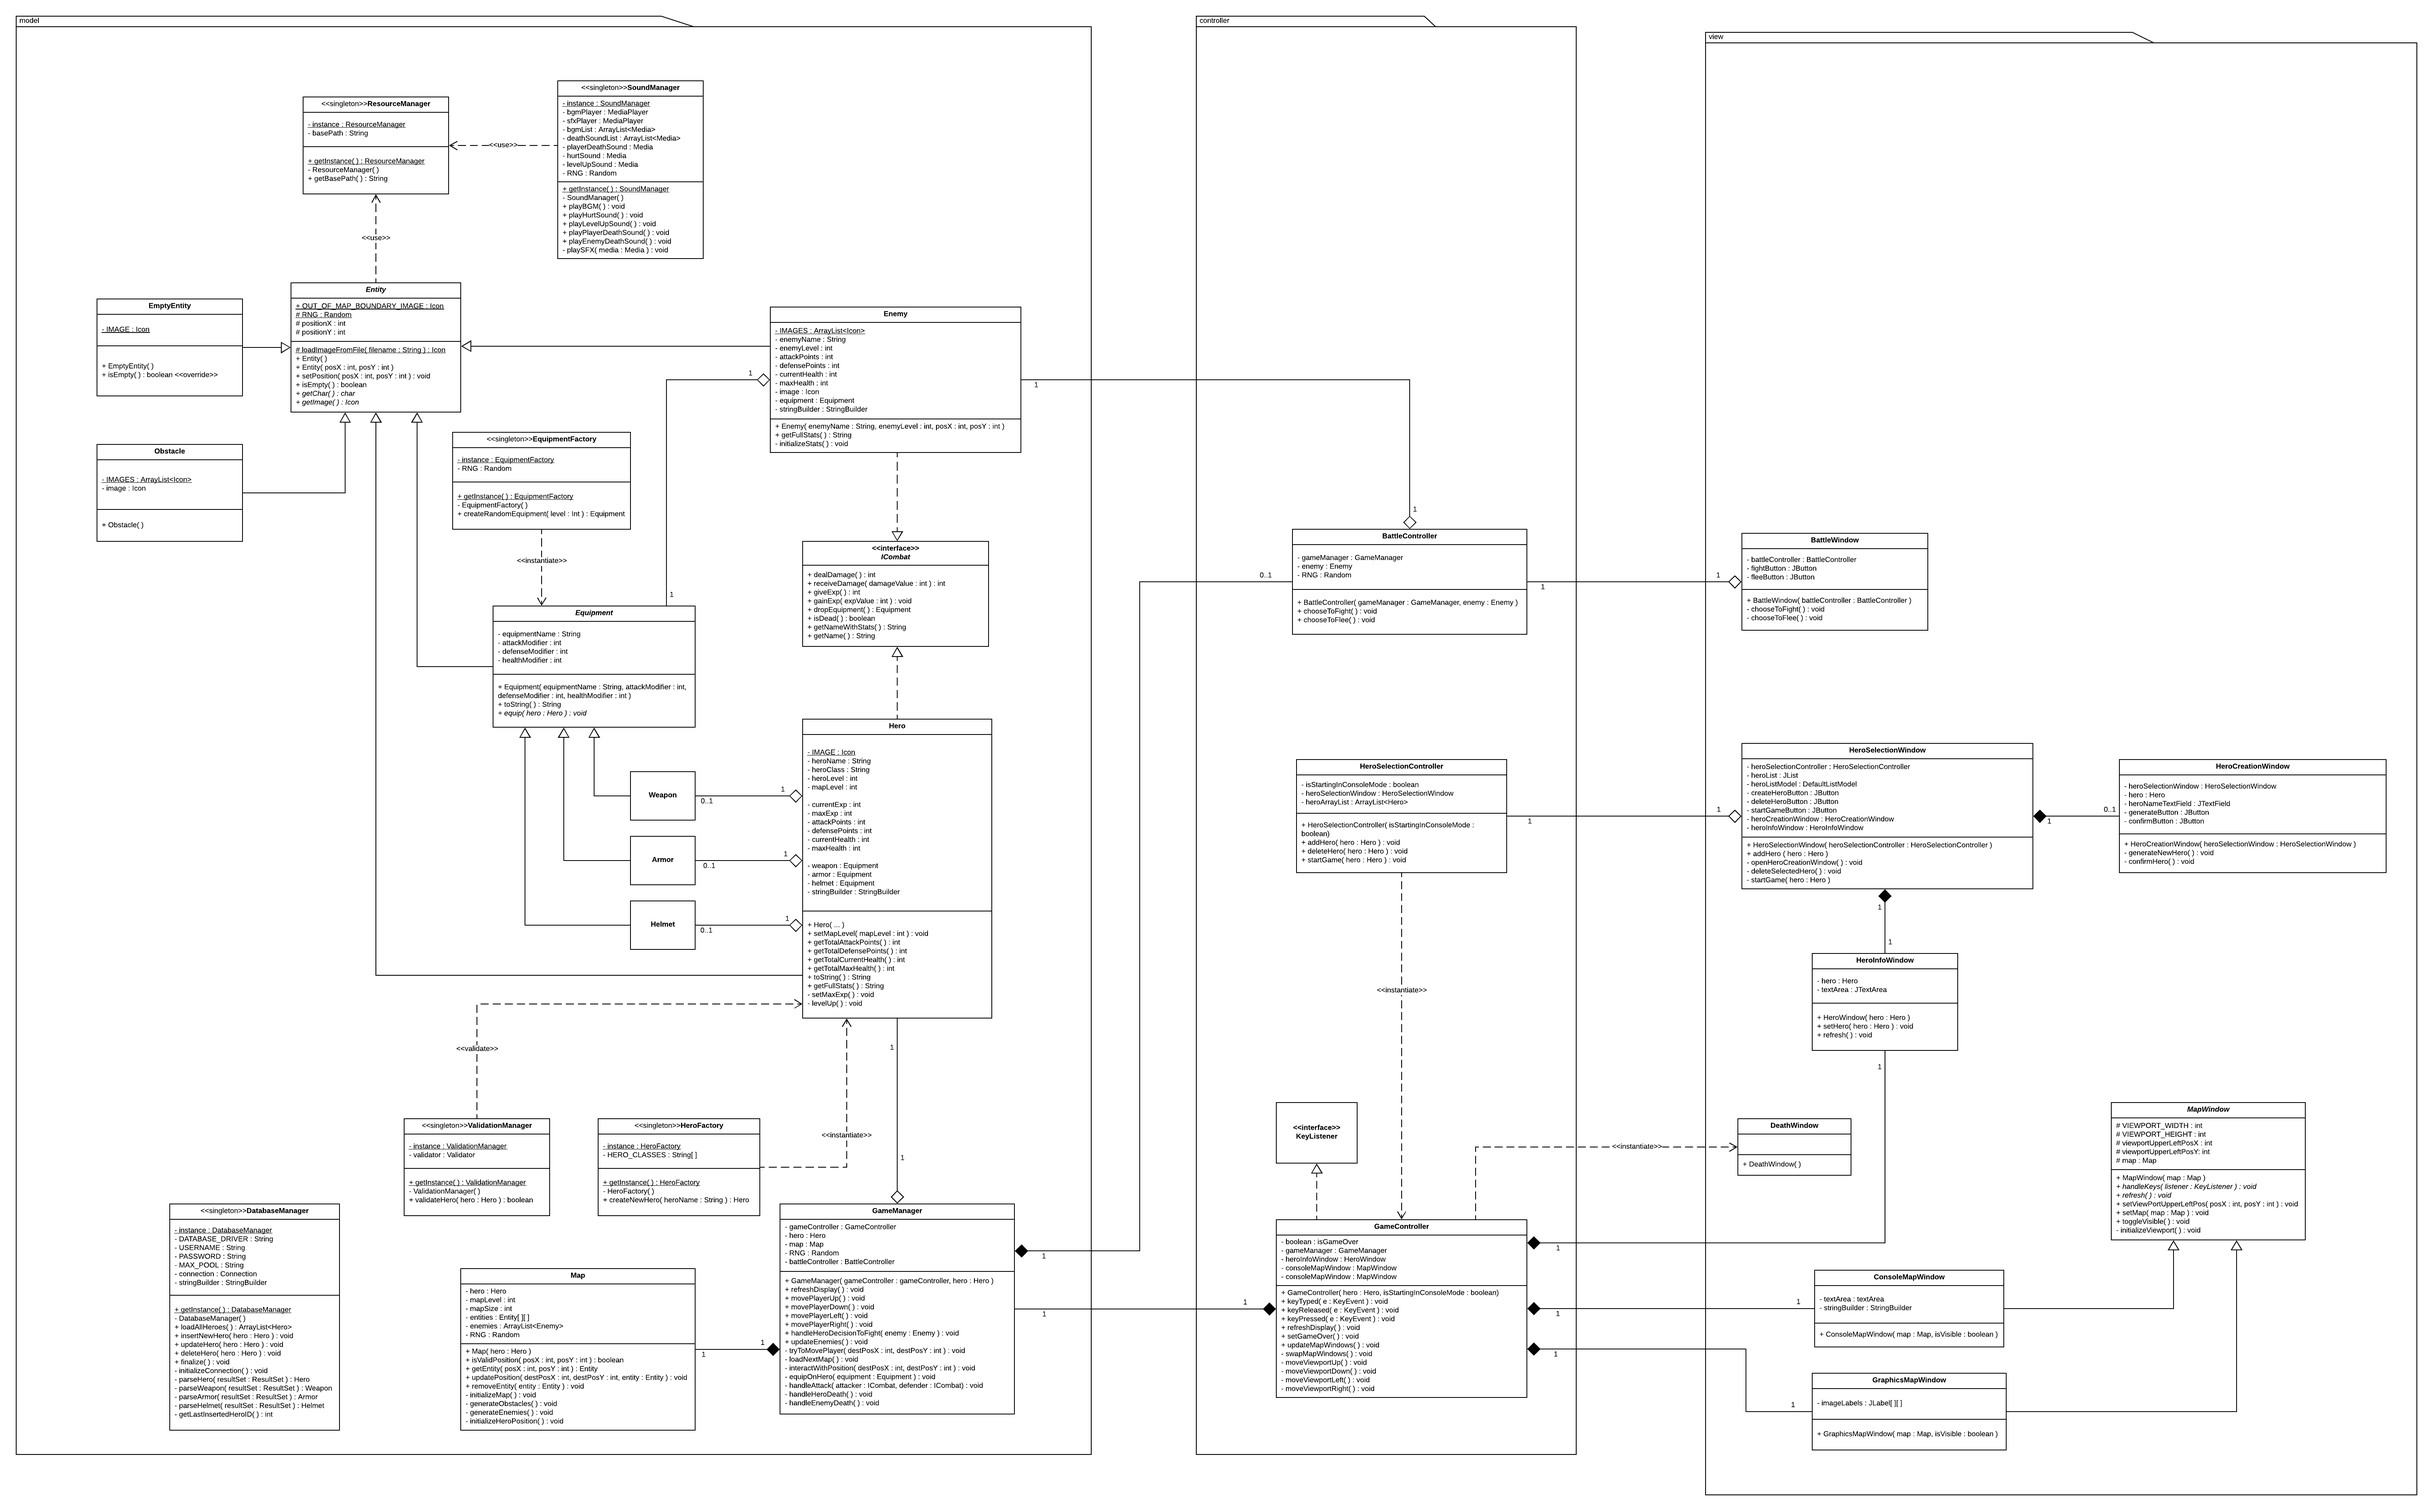
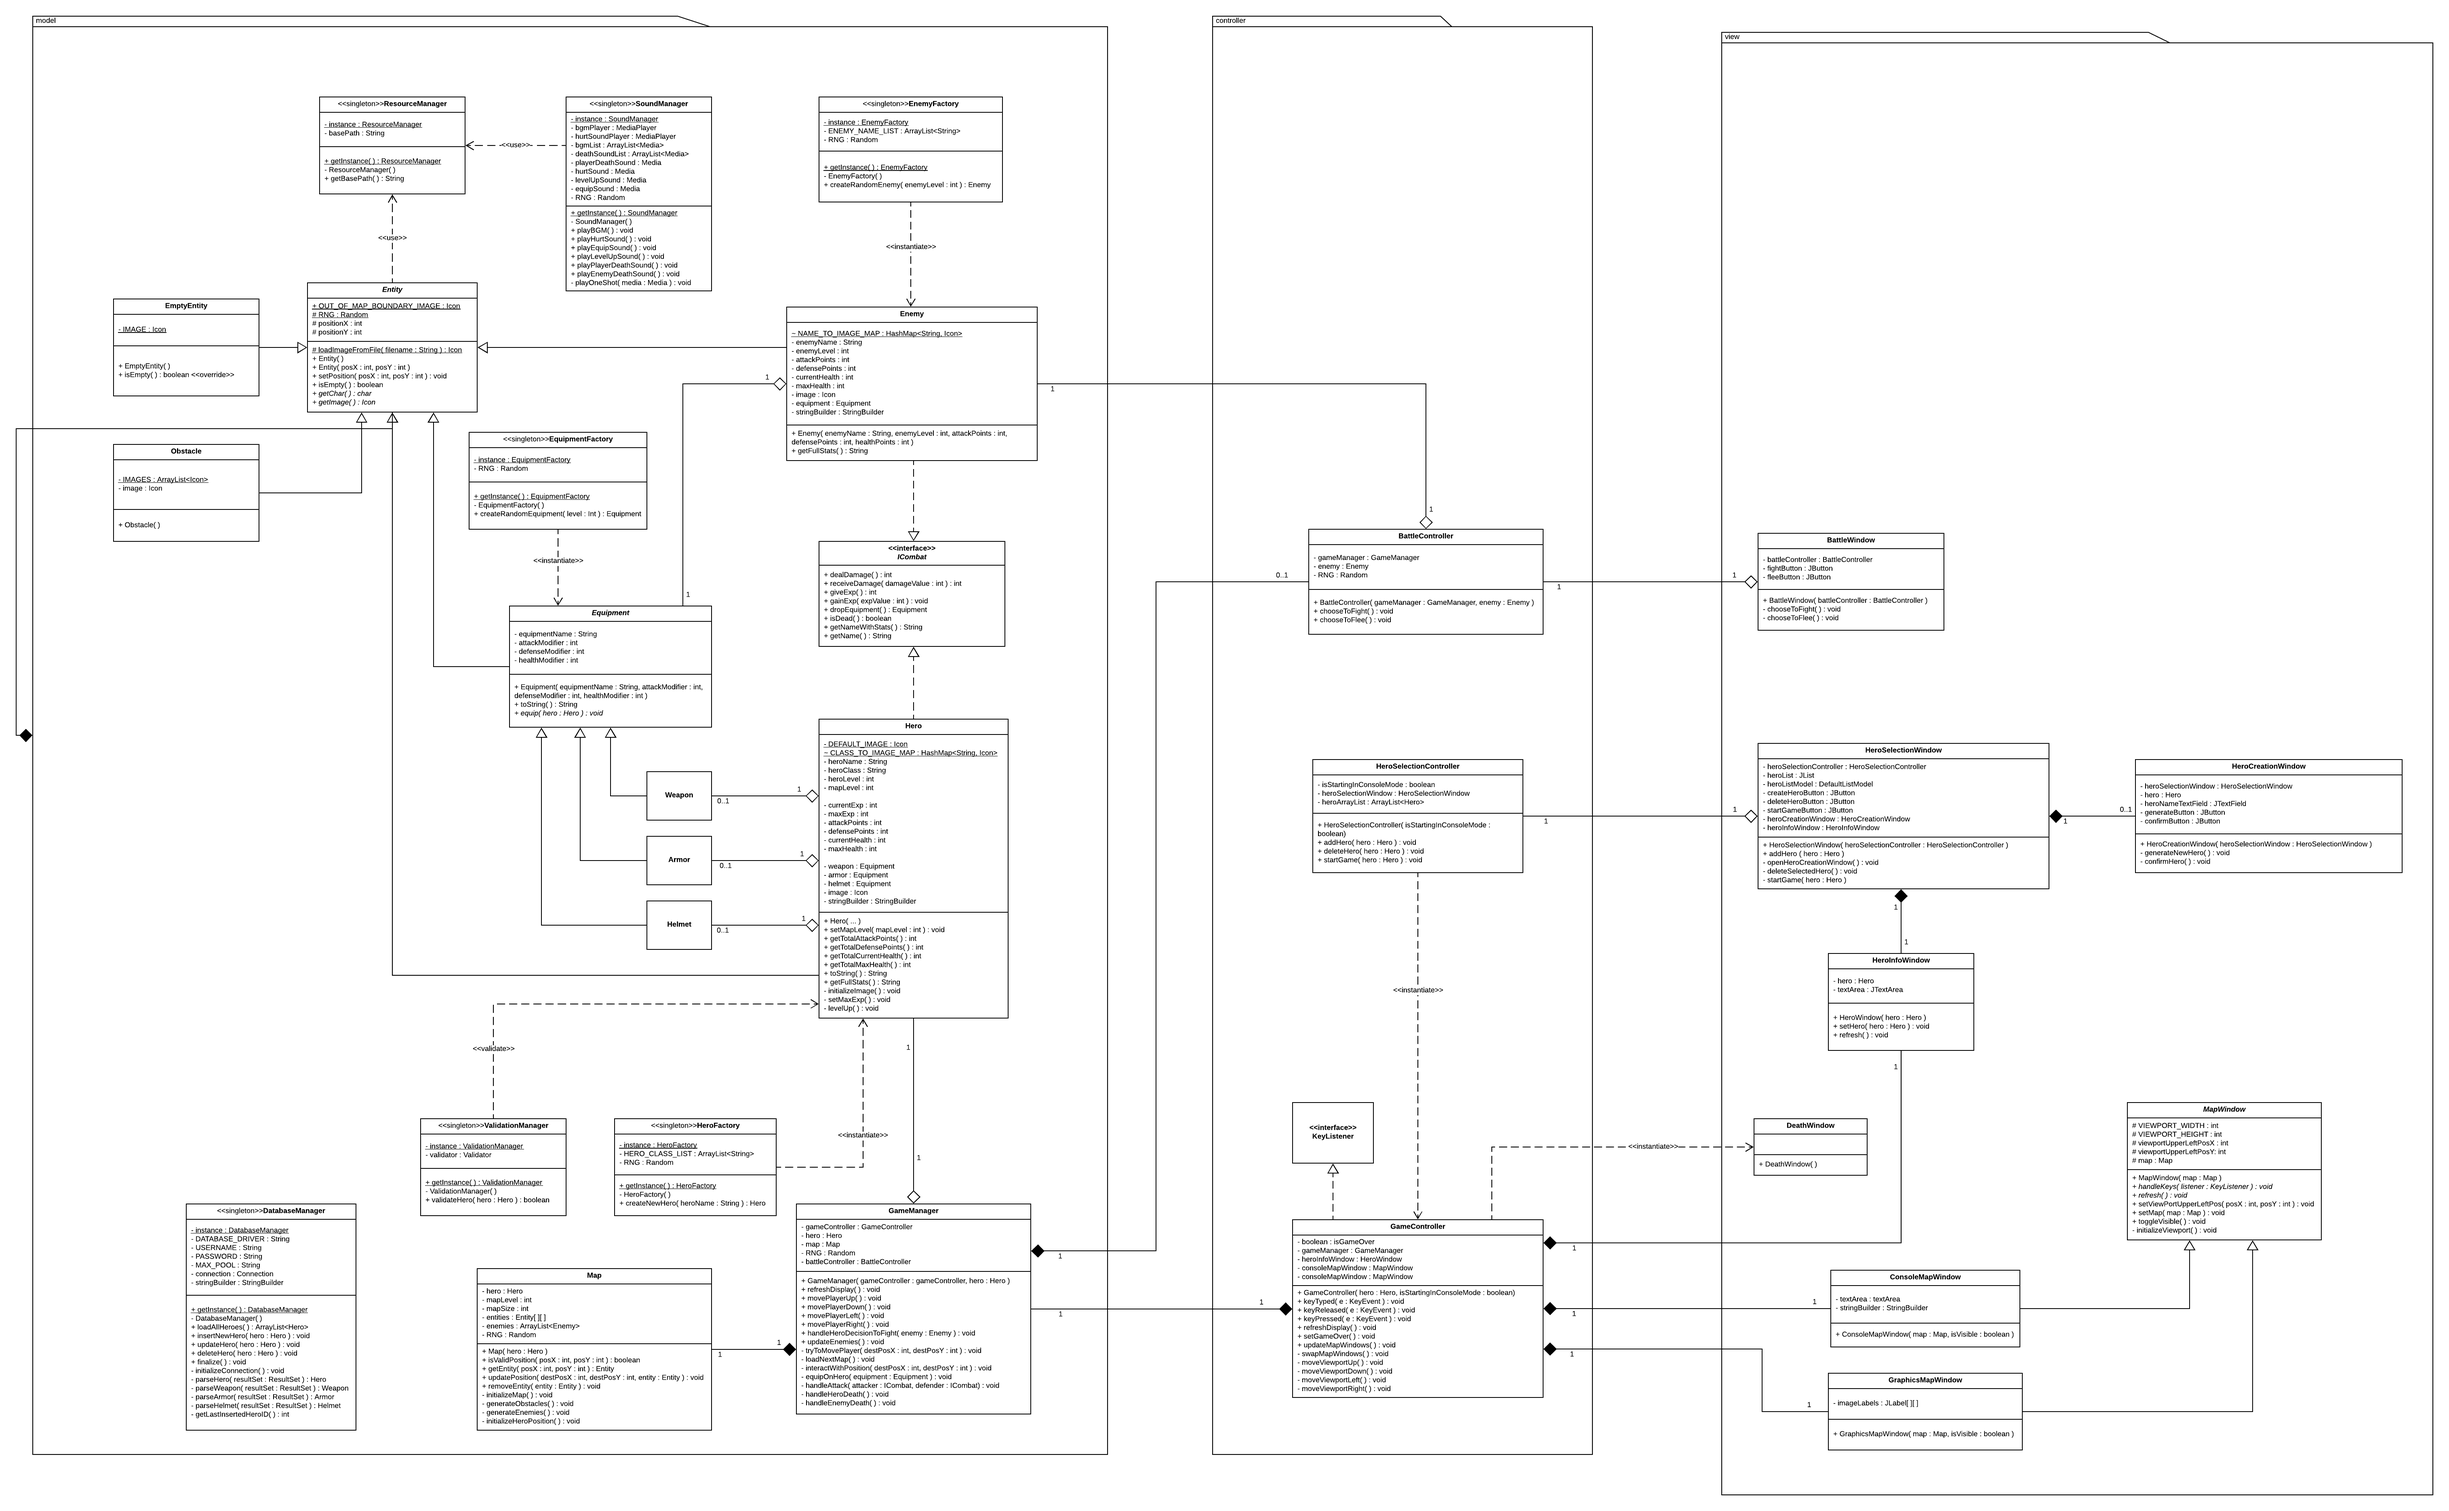
fixed sound, viewport controls, added enemy factory

diff --git a/src/main/java/ashih/swingy/model/Enemy.java b/src/main/java/ashih/swingy/model/Enemy.java
@@ -1,21 +1,20 @@
 package ashih.swingy.model;
 
 import javax.swing.*;
-import java.util.ArrayList;
+import java.util.HashMap;
 
 public class Enemy extends Entity implements ICombat
 {
-	private static final ArrayList<Icon> IMAGES = new ArrayList<Icon>();
+	static HashMap<String, Icon> NAME_TO_IMAGE_MAP = new HashMap<String, Icon>();
 	static
 	{
-		Enemy.IMAGES.add(Entity.loadImageFromFile("images/burger.png"));
-		Enemy.IMAGES.add(Entity.loadImageFromFile("images/burger.png"));
-		Enemy.IMAGES.add(Entity.loadImageFromFile("images/french_fries.png"));
-		Enemy.IMAGES.add(Entity.loadImageFromFile("images/pizza.png"));
-		Enemy.IMAGES.add(Entity.loadImageFromFile("images/hotdog.png"));
-		Enemy.IMAGES.add(Entity.loadImageFromFile("images/sandwich.png"));
-		Enemy.IMAGES.add(Entity.loadImageFromFile("images/taco.png"));
-		Enemy.IMAGES.add(Entity.loadImageFromFile("images/burrito.png"));
+		Enemy.NAME_TO_IMAGE_MAP.put("Burger", Entity.loadImageFromFile("images/burger.png"));
+		Enemy.NAME_TO_IMAGE_MAP.put("French Fries", Entity.loadImageFromFile("images/french_fries.png"));
+		Enemy.NAME_TO_IMAGE_MAP.put("Pizza", Entity.loadImageFromFile("images/pizza.png"));
+		Enemy.NAME_TO_IMAGE_MAP.put("Hot Dog", Entity.loadImageFromFile("images/hotdog.png"));
+		Enemy.NAME_TO_IMAGE_MAP.put("Sandwich", Entity.loadImageFromFile("images/sandwich.png"));
+		Enemy.NAME_TO_IMAGE_MAP.put("Taco", Entity.loadImageFromFile("images/taco.png"));
+		Enemy.NAME_TO_IMAGE_MAP.put("Burrito", Entity.loadImageFromFile("images/burrito.png"));
 	}
 
 	private final String enemyName;
@@ -29,37 +28,17 @@ public class Enemy extends Entity implements ICombat
 	private final Equipment equipment;
 	private final StringBuilder stringBuilder;
 
-	public Enemy(String enemyName, int enemyLevel, int posX, int posY)
+	public Enemy(String enemyName, int enemyLevel, int attackPoints, int defensePoints, int healthPoints)
 	{
-		super(posX, posY);
 		this.enemyName = enemyName;
 		this.enemyLevel = enemyLevel;
-		this.initializeStats();
+		this.attackPoints = attackPoints;
+		this.defensePoints = defensePoints;
+		this.currentHealth = healthPoints;
+		this.maxHealth = healthPoints;
+		this.image = Enemy.NAME_TO_IMAGE_MAP.get(this.enemyName);
 		this.equipment = EquipmentFactory.getInstance().createRandomEquipment(this.enemyLevel);
-		int imageIndex = Entity.RNG.nextInt(Enemy.IMAGES.size());
-		this.image = Enemy.IMAGES.get(imageIndex);
 		this.stringBuilder = new StringBuilder();
-	}
-
-	private void initializeStats()
-	{
-		int statPoints = this.enemyLevel * 5;
-		this.attackPoints = 0;
-		this.defensePoints = 0;
-		this.maxHealth = 0;
-
-		while (statPoints > 0)
-		{
-			double probability = Math.random();
-			if (probability < 0.3)
-				this.attackPoints++;
-			else if (probability < 0.6)
-				this.defensePoints++;
-			else
-				this.maxHealth += 2;
-			statPoints--;
-		}
-		this.currentHealth = this.maxHealth;
 	}
 
 	public String getFullStats()

diff --git a/src/main/java/ashih/swingy/controller/GameController.java b/src/main/java/ashih/swingy/controller/GameController.java
@@ -102,32 +102,32 @@ public class GameController implements KeyListener
 	private void moveViewportUp()
 	{
 		this.consoleMapWindow.setViewPortUpperLeftPos(this.consoleMapWindow.getViewportUpperLeftPosX(),
-				this.consoleMapWindow.getViewportUpperLeftPosY() + 1);
-		this.graphicsMapWindow.setViewPortUpperLeftPos(this.graphicsMapWindow.getViewportUpperLeftPosX(),
-				this.graphicsMapWindow.getViewportUpperLeftPosY() + 1);
-	}
-
-	private void moveViewportDown()
-	{
-		this.consoleMapWindow.setViewPortUpperLeftPos(this.consoleMapWindow.getViewportUpperLeftPosX(),
 				this.consoleMapWindow.getViewportUpperLeftPosY() - 1);
 		this.graphicsMapWindow.setViewPortUpperLeftPos(this.graphicsMapWindow.getViewportUpperLeftPosX(),
 				this.graphicsMapWindow.getViewportUpperLeftPosY() - 1);
 	}
 
+	private void moveViewportDown()
+	{
+		this.consoleMapWindow.setViewPortUpperLeftPos(this.consoleMapWindow.getViewportUpperLeftPosX(),
+				this.consoleMapWindow.getViewportUpperLeftPosY() + 1);
+		this.graphicsMapWindow.setViewPortUpperLeftPos(this.graphicsMapWindow.getViewportUpperLeftPosX(),
+				this.graphicsMapWindow.getViewportUpperLeftPosY() + 1);
+	}
+
 	private void moveViewportLeft()
 	{
-		this.consoleMapWindow.setViewPortUpperLeftPos(this.consoleMapWindow.getViewportUpperLeftPosX() + 1,
+		this.consoleMapWindow.setViewPortUpperLeftPos(this.consoleMapWindow.getViewportUpperLeftPosX() - 1,
 				this.consoleMapWindow.getViewportUpperLeftPosY());
-		this.graphicsMapWindow.setViewPortUpperLeftPos(this.graphicsMapWindow.getViewportUpperLeftPosX() + 1,
+		this.graphicsMapWindow.setViewPortUpperLeftPos(this.graphicsMapWindow.getViewportUpperLeftPosX() - 1,
 				this.graphicsMapWindow.getViewportUpperLeftPosY());
 	}
 
 	private void moveViewportRight()
 	{
-		this.consoleMapWindow.setViewPortUpperLeftPos(this.consoleMapWindow.getViewportUpperLeftPosX() - 1,
+		this.consoleMapWindow.setViewPortUpperLeftPos(this.consoleMapWindow.getViewportUpperLeftPosX() + 1,
 				this.consoleMapWindow.getViewportUpperLeftPosY());
-		this.graphicsMapWindow.setViewPortUpperLeftPos(this.graphicsMapWindow.getViewportUpperLeftPosX() - 1,
+		this.graphicsMapWindow.setViewPortUpperLeftPos(this.graphicsMapWindow.getViewportUpperLeftPosX() + 1,
 				this.graphicsMapWindow.getViewportUpperLeftPosY());
 	}
 

diff --git a/src/main/java/ashih/swingy/model/SoundManager.java b/src/main/java/ashih/swingy/model/SoundManager.java
@@ -18,7 +18,7 @@ public class SoundManager
 	}
 
 	private MediaPlayer bgmPlayer;
-	private MediaPlayer sfxPlayer;
+	private MediaPlayer hurtSoundPlayer;
 	private final ArrayList<Media> bgmList;
 	private final ArrayList<Media> deathSoundList;
 	private final Media playerDeathSound;
@@ -60,6 +60,9 @@ public class SoundManager
 		this.bgmList.add(this.loadMedia("bgm/Paris2.mp3"));
 		this.bgmList.add(this.loadMedia("bgm/Perturbator.mp3"));
 		this.bgmList.add(this.loadMedia("bgm/TurfMain.mp3"));
+
+		if (this.hurtSound != null)
+			this.hurtSoundPlayer = new MediaPlayer(this.hurtSound);
 	}
 
 	private Media loadMedia(String filename)
@@ -80,15 +83,17 @@ public class SoundManager
 	public void playBGM()
 	{
 		if (this.bgmPlayer != null)
+		{
 			this.bgmPlayer.stop();
+			this.bgmPlayer.dispose();
+		}
 
 		int index = this.RNG.nextInt(this.bgmList.size());
 		Media bgm = this.bgmList.get(index);
-
 		if (bgm != null)
 		{
 			this.bgmPlayer = new MediaPlayer(bgm);
-			this.bgmPlayer.setVolume(0.2);
+			this.bgmPlayer.setVolume(0.4);
 			this.bgmPlayer.setOnEndOfMedia(new Runnable()
 			{
 				public void run()
@@ -100,15 +105,12 @@ public class SoundManager
 		}
 	}
 
-	private void playSFX(Media media)
+	public void playHurtSound()
 	{
-		if (media != null)
+		if (this.hurtSoundPlayer != null)
 		{
-			if (this.sfxPlayer != null)
-				this.sfxPlayer.stop();
-
-			this.sfxPlayer = new MediaPlayer(media);
-			this.sfxPlayer.play();
+			this.hurtSoundPlayer.stop();
+			this.hurtSoundPlayer.play();
 		}
 	}
 
@@ -116,14 +118,16 @@ public class SoundManager
 	{
 		if (media != null)
 		{
-			MediaPlayer mediaPlayer = new MediaPlayer(media);
-			mediaPlayer.play();
+			final MediaPlayer tempMediaPlayer = new MediaPlayer(media);
+			tempMediaPlayer.setOnEndOfMedia(new Runnable()
+			{
+				public void run()
+				{
+					tempMediaPlayer.dispose();
+				}
+			});
+			tempMediaPlayer.play();
 		}
-	}
-
-	public void playHurtSound()
-	{
-		this.playSFX(this.hurtSound);
 	}
 
 	public void playEquipSound()

diff --git a/src/main/java/ashih/swingy/model/EnemyFactory.java b/src/main/java/ashih/swingy/model/EnemyFactory.java
@@ -1,0 +1,48 @@
+package ashih.swingy.model;
+
+import java.util.ArrayList;
+import java.util.Random;
+
+public class EnemyFactory
+{
+	private static final EnemyFactory instance = new EnemyFactory();
+
+	public static EnemyFactory getInstance()
+	{
+		return (EnemyFactory.instance);
+	}
+
+	private final ArrayList<String> ENEMY_NAME_LIST;
+	private final Random RNG;
+
+	private EnemyFactory()
+	{
+		this.ENEMY_NAME_LIST = new ArrayList<String>(Enemy.NAME_TO_IMAGE_MAP.keySet());
+		this.RNG = new Random();
+	}
+
+	public Enemy createRandomEnemy(int enemyLevel)
+	{
+		int enemyNameIndex = this.RNG.nextInt(this.ENEMY_NAME_LIST.size());
+		String enemyName = this.ENEMY_NAME_LIST.get(enemyNameIndex);
+
+		int statPoints = enemyLevel * 5;
+		int attackPoints = 0;
+		int defensePoints = 0;
+		int healthPoints = 0;
+
+		while (statPoints > 0)
+		{
+			int randValue = this.RNG.nextInt(3);
+			if (randValue == 1)
+				attackPoints++;
+			else if (randValue == 2)
+				defensePoints++;
+			else
+				healthPoints += 2;
+			statPoints--;
+		}
+		return (new Enemy(enemyName, enemyLevel, attackPoints, defensePoints, healthPoints));
+	}
+
+}

diff --git a/src/main/java/ashih/swingy/model/Hero.java b/src/main/java/ashih/swingy/model/Hero.java
@@ -35,8 +35,8 @@ public class Hero extends Entity implements ICombat
 	private Equipment weapon;
 	private Equipment armor;
 	private Equipment helmet;
-	private final StringBuilder stringBuilder;
 	private Icon image;
+	private final StringBuilder stringBuilder;
 
 	/* Constructor for creating a new level 1 hero */
 	public Hero(String heroName, String heroClass, int attackPoints, int defensePoints, int healthPoints)
@@ -114,7 +114,6 @@ public class Hero extends Entity implements ICombat
 	public Equipment getWeapon() { return (this.weapon); }
 	public Equipment getArmor() { return (this.armor); }
 	public Equipment getHelmet() { return (this.helmet); }
-
 
 	public void setMapLevel(int mapLevel) { this.mapLevel = mapLevel; }
 

diff --git a/src/main/java/ashih/swingy/model/Map.java b/src/main/java/ashih/swingy/model/Map.java
@@ -65,8 +65,8 @@ public class Map
 		{
 			int posX = this.RNG.nextInt(this.mapSize);
 			int posY = this.RNG.nextInt(this.mapSize);
-			Enemy enemy = new Enemy("Bad Guy", this.mapLevel, posX, posY);
-			this.entities[posY][posX] = enemy;
+			Enemy enemy = EnemyFactory.getInstance().createRandomEnemy(this.mapLevel);
+			this.updatePosition(posX, posY, enemy);
 			this.enemies.add(enemy);
 		}
 	}
